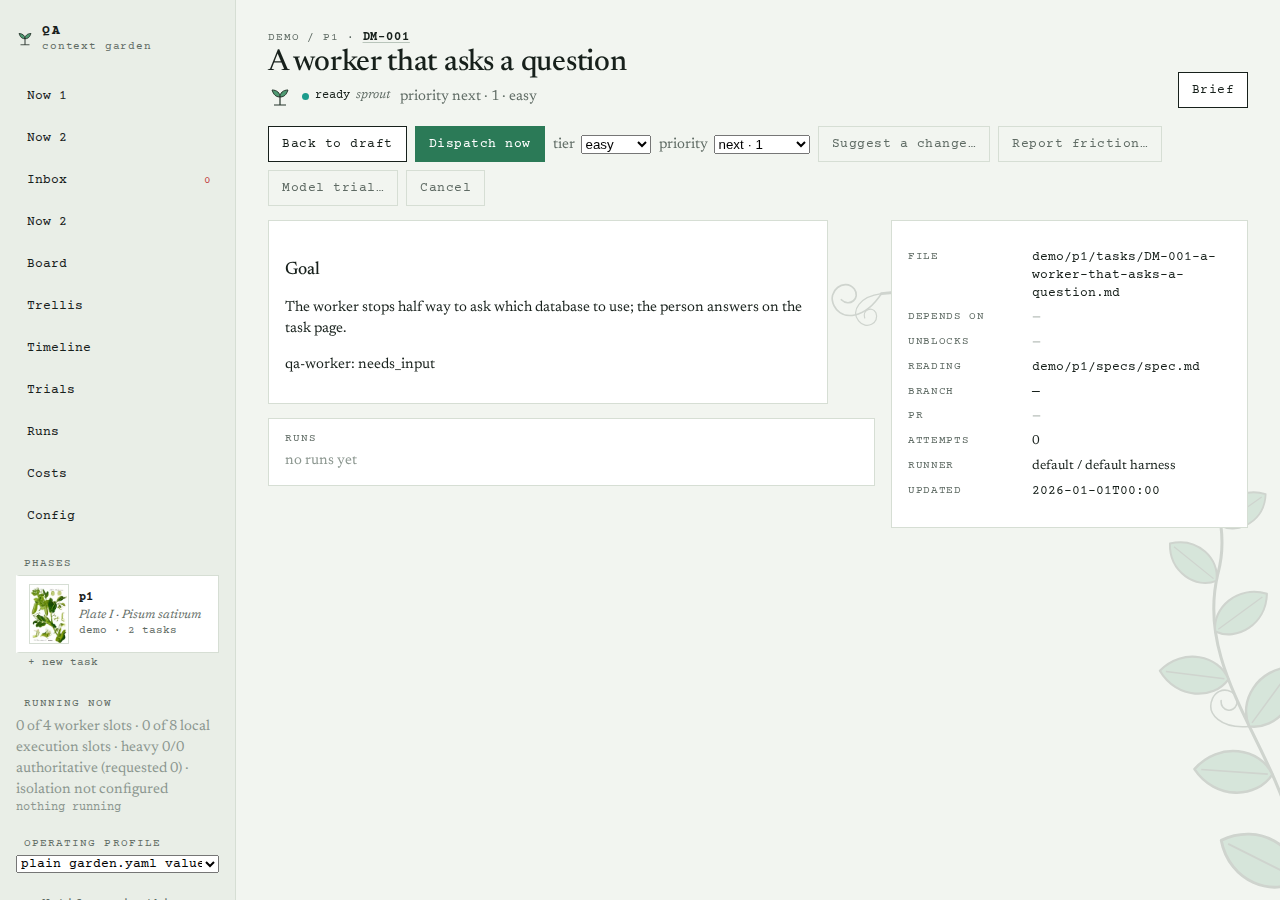
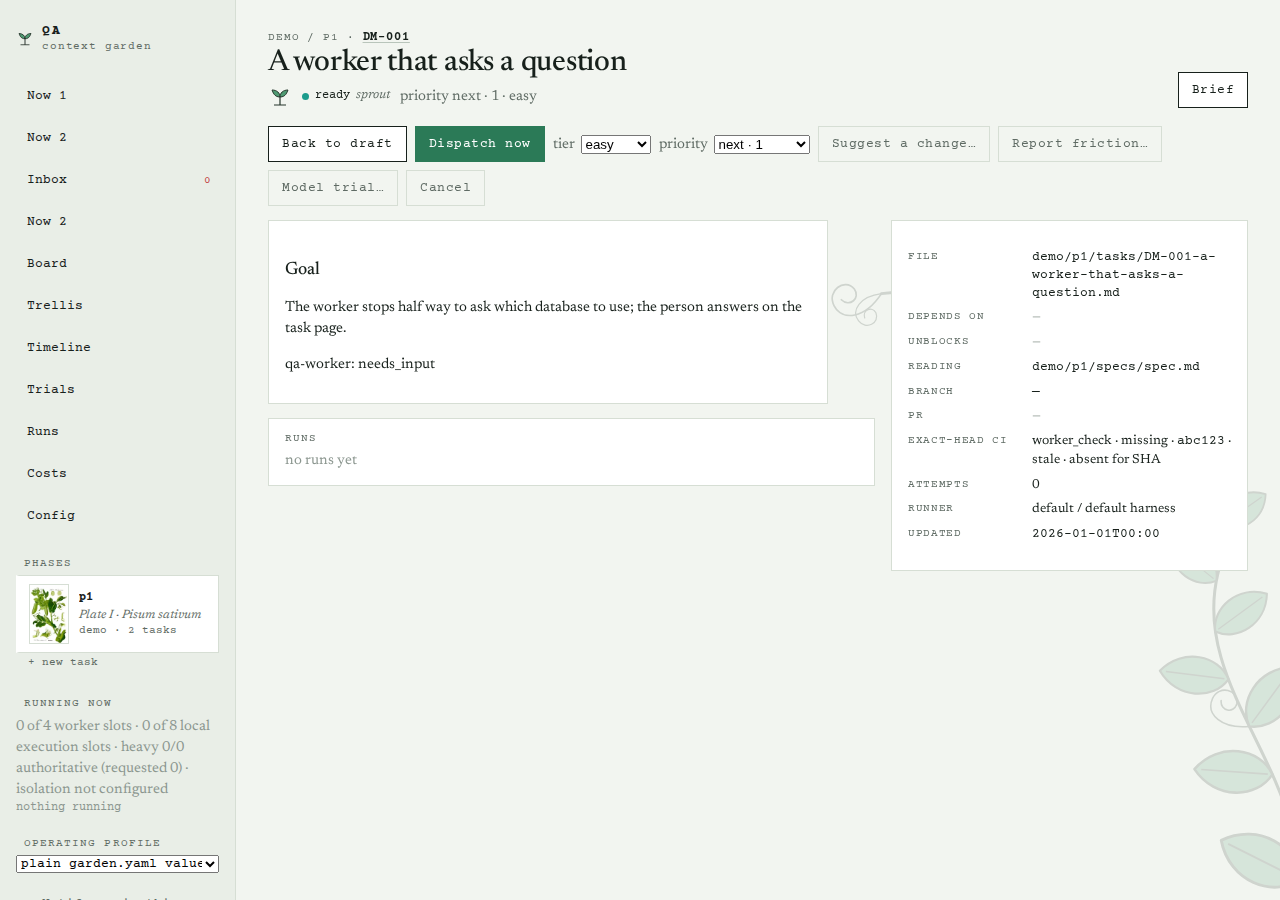
Show stale and absent exact-head status together

Changed region(s): [[0.8125, 0.4667, 0.9375, 0.5911], [0.9062, 0.5911, 0.9688, 0.6533], [0.7188, 0.4667, 0.75, 0.5911]]

diff --git a/docs/design/captures/cg-396/task.html b/docs/design/captures/cg-396/task.html
@@ -321,7 +321,7 @@ pre.log { margin:0; max-height:70vh; overflow:auto; background:var(--surface-2);
 </style>
 
 </head>
-<body class="" data-server-now="2026-09-08T15:36:17+00:00">
+<body class="" data-server-now="2026-09-08T17:08:30+00:00">
 
 <svg width="0" height="0" style="position:absolute" aria-hidden="true"><defs>
 <pattern id="hatch" patternUnits="userSpaceOnUse" width="4" height="4" patternTransform="rotate(45)"><rect width="4" height="4" fill="var(--leaf-tint)"/><line x1="0" y1="0" x2="0" y2="4" stroke="var(--hatch)" stroke-width="0.7"/></pattern>
@@ -443,20 +443,20 @@ pre.log { margin:0; max-height:70vh; overflow:auto; background:var(--surface-2);
     <a href="/trials" class="">Trials</a>
     <a href="/runs" class="">Runs</a>
     <a href="/costs" class="">Costs</a>
-    
+
     <a href="/config" class="">Config</a>
   </nav>
   <div>
     <h4>Phases</h4>
     <a class="drawer " href="/phases/demo/p1"><span class="thumb"><img src="/static/plates/pea-thumb.webp" alt="" width="38" height="58" loading="lazy"></span><span class="k"><b>p1</b><i>Plate I · Pisum sativum</i><span>demo · 2 tasks</span></span></a><a href="/phases/demo/p1#new-task" style="display:block; margin:-5px 0 8px 12px; font:11px var(--mono); color:var(--muted); text-decoration:none">+ new task</a>
-    
-    
+
+
   </div>
   <div class="rail-running">
     <h4>Running now</h4>
     <span class="faint">0 of 4 worker slots · 0 of 8 local execution slots · heavy 0/0 authoritative (requested 0) · isolation not configured</span>
-    
-    
+
+
     <div class="running-now">
       <span class="faint">nothing running</span>
     </div>
@@ -471,17 +471,17 @@ pre.log { margin:0; max-height:70vh; overflow:auto; background:var(--surface-2);
       <noscript><button type="submit" class="quiet">Switch</button></noscript>
       <span class="autosave-mark" aria-live="polite"></span>
     </form>
-    
-    
+
+
   </div>
   <div class="notify" id="notify">
     <label class="check"><input type="checkbox" id="notify-toggle"> Notify me in this browser</label>
     <span class="notify-state faint" id="notify-state"></span>
   </div>
   <div class="foot">
-    
+
     <span>scheduler loop off</span>
-    
+
     <form method="post" action="/tick"><button class="quiet" title="Reap finished workers, poll PRs, dispatch ready tasks">↻ Tick now</button></form>
   </div>
 </aside>
@@ -503,32 +503,32 @@ pre.log { margin:0; max-height:70vh; overflow:auto; background:var(--surface-2);
 
 
 <div class="actions" style="margin-bottom:14px">
-  
+
   <form class="inline" method="post" action="/tasks/DM-001/unapprove"><button>Back to draft</button></form>
   <form class="inline" method="post" action="/tasks/DM-001/dispatch"><button class="primary" >Dispatch now</button></form>
-  
-  
-  
-  
+
+
+
+
   <form class="inline" method="post" action="/tasks/DM-001/difficulty" style="display:inline-flex;gap:6px;align-items:center" title="Model tier at dispatch" data-autosave><label class="muted" for="difficulty">tier</label><select id="difficulty" name="note" onchange="this.form.requestSubmit()"><option value="easy" selected>easy</option><option value="medium">medium</option><option value="hard">hard</option></select><span class="autosave-mark" aria-live="polite"></span></form>
   <form class="inline" method="post" action="/tasks/DM-001/priority" style="display:inline-flex;gap:6px;align-items:center" title="Lower dispatches first" data-autosave><label class="muted" for="priority">priority</label><select id="priority" name="note" onchange="this.form.requestSubmit()"><option value="0">first · 0</option><option value="1" selected>next · 1</option><option value="2">normal · 2</option><option value="3">later · 3</option><option value="4">someday · 4</option></select><span class="autosave-mark" aria-live="polite"></span></form>
-  
+
 
   <button class="quiet" data-toggle="suggest-form">Suggest a change…</button>
-  
+
   <button class="quiet" data-toggle="friction-form">Report friction…</button>
-  
+
   <button class="quiet" data-toggle="trial-form">Model trial…</button>
-  
+
   <form class="inline" method="post" action="/tasks/DM-001/cancel"><button class="quiet danger">Cancel</button></form>
 </div>
 <div id="persona-form" class="panel" hidden><form method="post" action="/tasks/DM-001/persona" class="actions"><span class="muted">Personas:</span><input type="text" name="note" placeholder="security, user" style="width:260px"><button class="primary">Run persona review</button><span class="faint">available: designer, product-manager, project-manager, security, staff-engineer, usability-expert, user</span></form></div>
 <div id="trial-form" class="panel" hidden>
   <div class="eyebrow">Start a model trial</div>
-  
+
   <form method="post" action="/tasks/DM-001/trial" class="trial-form" data-trial-form data-harnesses='{"claude": ["qa-easy", "qa-medium", "qa-hard", "sonnet", "opus", "haiku", "fable", "claude-sonnet-5", "claude-opus-4-8"]}' data-default-harness="claude">
     <input type="hidden" name="note">
-    
+
     <div class="trial-rows"></div>
     <div class="actions" style="margin-top:8px"><button type="button" class="quiet trial-add">+ Add contender</button><button class="primary">Start trial</button></div>
   </form>
@@ -560,43 +560,43 @@ pre.log { margin:0; max-height:70vh; overflow:auto; background:var(--surface-2);
     <div class="panel prose"><h2>Goal</h2>
 <p>The worker stops half way to ask which database to use; the person answers on the task page.</p>
 <p>qa-worker: needs_input</p></div>
-    
-    
-    
-    
-    
-    
-    
-    
-    
-    
-    
-    
-    
+
+
+
+
+
+
+
+
+
+
+
+
+
     <div class="panel"><div class="eyebrow">Runs</div>
       <div id="runs" data-poll="/partials/tasks/DM-001/runs" data-every="5000" style="margin-top:6px"><span class="faint">no runs yet</span></div>
     </div>
-    
-    
+
+
   </div>
   <div class="stack">
     <div class="panel">
       <dl class="kv">
         <dt>file</dt><dd class="mono">demo/p1/tasks/DM-001-a-worker-that-asks-a-question.md</dd>
-        
-        
-        
-        
+
+
+
+
         <dt>depends on</dt><dd><span class="faint">—</span></dd>
         <dt>unblocks</dt><dd><span class="faint">—</span></dd>
         <dt>reading</dt><dd><span class="mono">demo/p1/specs/spec.md</span><br></dd>
         <dt>branch</dt><dd class="mono">—</dd>
         <dt>PR</dt><dd><span class="faint">—</span></dd>
-        
-        
-        
-        
-        
+
+        <dt>exact-head CI</dt><dd>worker_check · missing · <span class="mono">abc123</span> · stale · absent for SHA</dd>
+
+
+
         <dt>attempts</dt><dd>0</dd>
         <dt>runner</dt><dd>default / default harness</dd>
         <dt>updated</dt><dd class="mono">2026-01-01T00:00</dd>

diff --git a/src/garden/web/templates/task.html b/src/garden/web/templates/task.html
@@ -225,7 +225,7 @@
         <dt>branch</dt><dd class="mono">{{ task.branch or '—' }}</dd>
         <dt>PR</dt><dd>{% if task.pr %}<a href="{{ task.pr }}" target="_blank">{{ task.pr }}</a>{% if state.pr_draft %} <span class="badge">draft</span>{% endif %}{% else %}<span class="faint">—</span>{% endif %}</dd>
         {% if state.review_decision or state.checks %}<dt>review / CI</dt><dd>{{ state.review_decision or '—' }} / {{ state.checks or '—' }}{% if state.failed_checks %} ({{ state.failed_checks|join(', ') }}){% endif %}</dd>{% endif %}
-        {% if state.ci_status %}<dt>exact-head CI</dt><dd>{{ state.ci_status.provider }} · {{ state.ci_status.state }} · <span class="mono">{{ state.ci_status.queried_sha[:12] or 'head unavailable' }}</span>{% if state.ci_status.stale %} · stale{% elif not state.ci_status.exists_for_sha %} · absent for SHA{% endif %}{% if state.ci_status.evidence_url %} · <a href="{{ state.ci_status.evidence_url }}" target="_blank">evidence</a>{% endif %}</dd>{% endif %}
+        {% if state.ci_status %}<dt>exact-head CI</dt><dd>{{ state.ci_status.provider }} · {{ state.ci_status.state }} · <span class="mono">{{ state.ci_status.queried_sha[:12] or 'head unavailable' }}</span>{% if state.ci_status.stale %} · stale{% endif %}{% if not state.ci_status.exists_for_sha %} · absent for SHA{% endif %}{% if state.ci_status.evidence_url %} · <a href="{{ state.ci_status.evidence_url }}" target="_blank">evidence</a>{% endif %}</dd>{% endif %}
         {% if state.last_review %}<dt>auto review</dt><dd>{{ state.last_review.verdict.replace('_',' ') }} ({{ state.review_rounds }} round{{ 's' if state.review_rounds != 1 else '' }}){% if state.review_run %} · running{% endif %}</dd>{% endif %}
         {% if state.automerge_blocked and not task.status.terminal %}<dt>automerge</dt><dd>held: {{ state.automerge_blocked }}</dd>{% endif %}
         {% if state.automerged %}<dt>automerge</dt><dd>merged by the garden ({{ state.automerged.method }}, {{ state.automerged.review_rounds }} review round{{ 's' if state.automerged.review_rounds != 1 else '' }})</dd>{% endif %}

diff --git a/src/garden/walkthrough.py b/src/garden/walkthrough.py
@@ -852,6 +852,12 @@ def _seeded_ui_capture(out_dir: Path, pages: list[str] | None = None) -> dict[st
 
     with tempfile.TemporaryDirectory(prefix="garden-ui-") as scratch:
         garden_root = make_garden(Path(scratch))
+        state = State(garden_root / ".garden" / "state.json")
+        state.get("DM-001")["ci_status"] = {
+            "provider": "worker_check", "state": "missing", "queried_sha": "abc123",
+            "stale": True, "exists_for_sha": False, "evidence_url": "", "failures": [],
+        }
+        state.save()
         store = Store(garden_root)
         # Keep the visual fixture representative even before a worker has run: the
         # walkthrough must always give personas a real decision card to inspect.

diff --git a/tests/test_walkthrough.py b/tests/test_walkthrough.py
@@ -227,6 +227,9 @@ def test_ui_check_produces_expected_screenshot_artifacts(tmp_path, monkeypatch):
     assert (tmp_path / "ui" / "task.html").exists()
     assert "task-decision" in result["pages"]
     assert 'class="panel decision-card"' in (tmp_path / "ui" / "task-decision.html").read_text()
+    task_page = (tmp_path / "ui" / "task.html").read_text()
+    assert "exact-head CI" in task_page
+    assert "stale" in task_page and "absent for SHA" in task_page
     for slug in ("now", "inbox", "board", "task"):
         for width in VIEWPORTS:
             for scheme in COLOR_SCHEMES:

diff --git a/tests/test_web.py b/tests/test_web.py
@@ -592,7 +592,7 @@ def test_task_page_shows_exact_head_ci_freshness_and_absence(garden):
     page = client(garden).get("/tasks/DM-001").text
     assert "exact-head CI" in page
     assert "worker_check · mismatched" in page
-    assert "abc123" in page and "stale" in page
+    assert "abc123" in page and "stale" in page and "absent for SHA" in page
 
 
 def test_read_generation_is_copy_on_write_across_an_action(garden):
